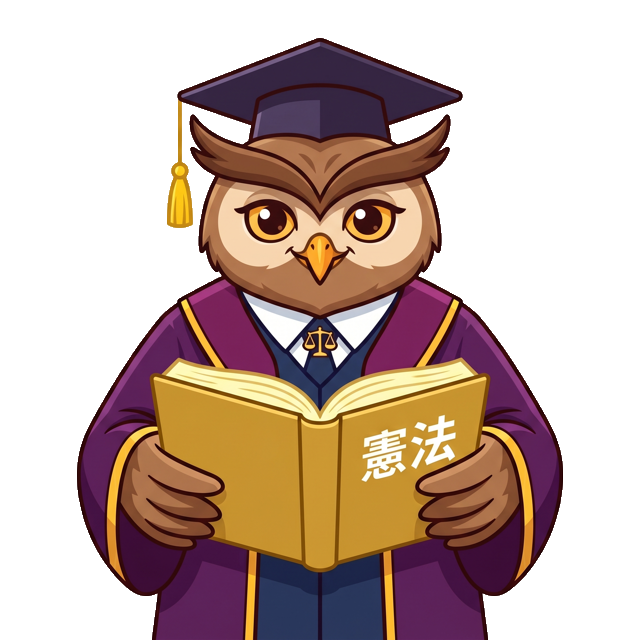
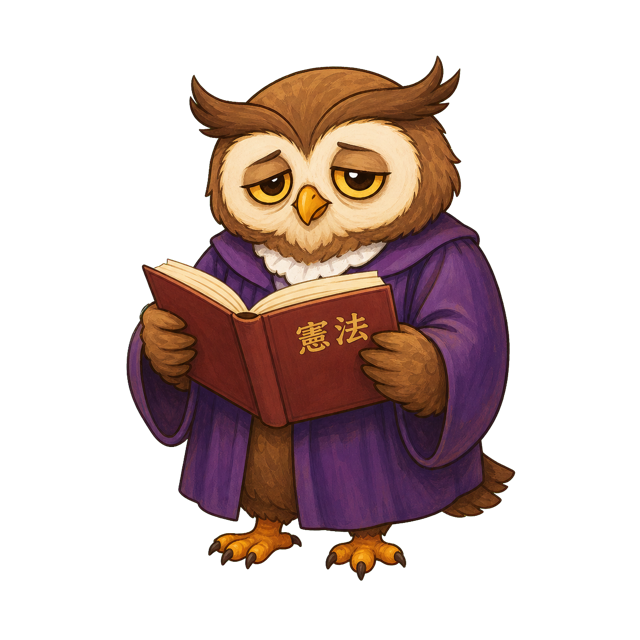
Redraw homepage owl with gpt-image-2

diff --git a/docs/design-assets/001-owl-mascot-unification.md b/docs/design-assets/001-owl-mascot-unification.md
@@ -258,3 +258,16 @@ Produced a second fresh draft set in `public/mascot-redesign-v2/` that follows t
 ### Summary
 
 The v2 exports satisfy the mechanical requirements for dimensions and real transparency, and protected prior files were not modified: scoped `git diff --name-status` for `public/tldr-illustration.png`, `public/mascot-redesign/`, and prior owl deliverables returned no changes. This review rejects the v2 design on the captain's stated quality bar because it still does not clearly resemble the owl character in `public/tldr-illustration.png`; it reads as a separate glasses-wearing mascot set.
+
+## Stage Report: draft
+
+- DONE: Homepage primary owl redraw is produced with ChatGPT Image 2 / `gpt-image-2`, or the report clearly states the endpoint was unavailable and stops without substitute fabrication.
+  Produced one new homepage owl through the built-in ChatGPT Image 2 / `gpt-image-2` image workflow; saved raw evidence at `public/mascot-redesign-gpt-image-2/owl-homepage-gpt-image-2-raw-chromakey.png`, transparent full-size output at `public/mascot-redesign-gpt-image-2/owl-homepage-gpt-image-2-transparent-fullsize.png`, and replaced the intended homepage deliverable `public/owl.png`.
+- DONE: Redraw is explicitly compared against the T2/reference owl style and addresses the captain's concern that the homepage owl currently differs.
+  Compared against `public/tldr-illustration.png` and current homepage/T2 usage in `src/app/page.tsx` and `src/components/SharedPresent.tsx`; the new owl removes the rejected glasses/mortarboard/vector-emblem language and uses the reference's rounded brown body, cream heart face disk, swept brow feathers, half-lidded weary eyes, small orange beak/talons, purple robe, soft painterly storybook shading, and `憲法` book.
+- DONE: Stage report gives concrete evidence of created files, preserved/replaced files, dimensions/transparency checks, production method, and any blockers.
+  `file`/`sips` verify raw source 1254x1254 RGB, transparent full-size 1254x1254 RGBA, and final `public/owl.png` 640x640 RGBA; Pillow alpha scan verifies final alpha_min=0, alpha_max=255, transparent=267153, partial=3338, opaque=139109, corner_alpha=0/0/0/0. Existing T1/T3/avatar assets were preserved; only final homepage `public/owl.png` was replaced. No production endpoint blocker was encountered.
+
+### Summary
+
+Focused this repair on the homepage primary owl as requested by the captain. The new `public/owl.png` is a ChatGPT Image 2 / `gpt-image-2` redraw that follows the `public/tldr-illustration.png` owl character language much more closely while preserving a separate raw generation record for review.